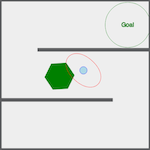
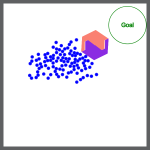
Updated Previews and Colors

Changed region(s): [[0.0, 0.0, 1.0, 1.0], [0.8, 0.1333, 0.9067, 0.1867]]

diff --git a/games/assembly-and-delivery/assembly-and-delivery.js b/games/assembly-and-delivery/assembly-and-delivery.js
@@ -166,7 +166,7 @@ function theGame($,phys,GameFramework, Box2D, drawutils, mathutils) {
                     X = verts[1].x - verts[0].x; 
                     Y = verts[2].y - verts[1].y;
                     index = 0;
-                    this.task.colorSelected[index] = 'seagreen';
+                    this.task.colorSelected[index] = 'salmon';
                     this.task.objectposx[index] = pos.x;
                     this.task.objectposy[index] = pos.y;
                     drawutils.drawMirroredBlock(30* pos.x,30 * pos.y, angle, this.task.colorSelected[index],4, 60);
@@ -177,7 +177,7 @@ function theGame($,phys,GameFramework, Box2D, drawutils, mathutils) {
                     X = verts[1].x - verts[0].x; 
                     Y = verts[2].y - verts[1].y;
                     index = 1;
-                    this.task.colorSelected[index] = 'purple';
+                    this.task.colorSelected[index] = 'BlueViolet';
                     this.task.objectposx[index] = pos.x;
                     this.task.objectposy[index] = pos.y;
                     drawutils.drawMirroredBlock(30* pos.x,30 * pos.y, angle, this.task.colorSelected[index],4,60);

diff --git a/games/assembly/assembly.js b/games/assembly/assembly.js
@@ -198,7 +198,7 @@ function theGame($,phys,GameFramework, Box2D, drawutils, mathutils) {
                     X = verts[1].x - verts[0].x; 
                     Y = verts[2].y - verts[1].y;
                     index = 0;
-                    this.task.colorSelected[index] = 'seagreen';
+                    this.task.colorSelected[index] = 'salmon';
                     this.task.objectposx[index] = pos.x;
                     this.task.objectposy[index] = pos.y;
                     drawutils.drawMirroredBlock(30* pos.x,30 * pos.y, angle, this.task.colorSelected[index],4, 60);
@@ -209,7 +209,7 @@ function theGame($,phys,GameFramework, Box2D, drawutils, mathutils) {
                     X = verts[1].x - verts[0].x; 
                     Y = verts[2].y - verts[1].y;
                     index = 1;
-                    this.task.colorSelected[index] = 'purple';
+                    this.task.colorSelected[index] = 'BlueViolet';
                     this.task.objectposx[index] = pos.x;
                     this.task.objectposy[index] = pos.y;
                     drawutils.drawMirroredBlock(30* pos.x,30 * pos.y, angle, this.task.colorSelected[index],4,60);
